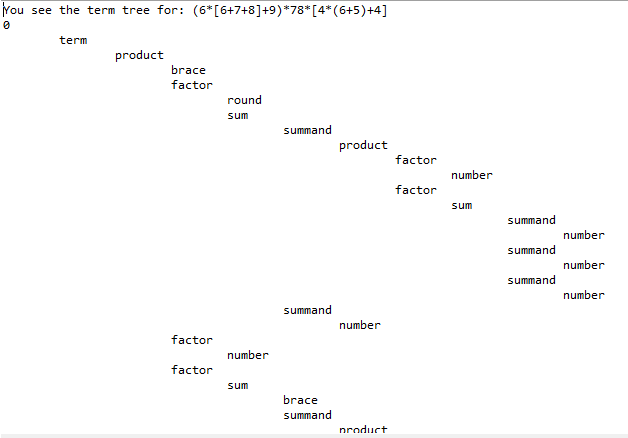
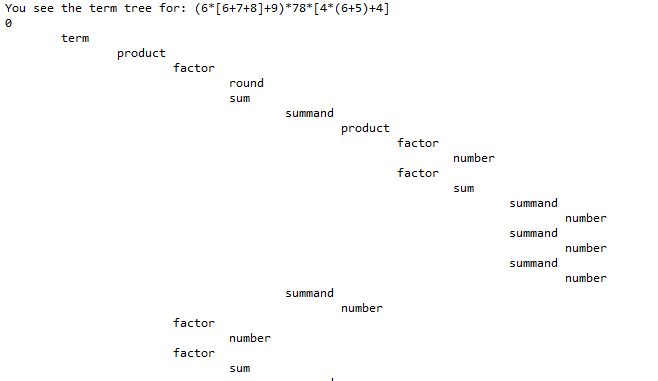
Changed doc in Readme.md

diff --git a/regex/src/test/java/com/florianingerl/util/regex/tests/CaptureReplacerTest.java b/regex/src/test/java/com/florianingerl/util/regex/tests/CaptureReplacerTest.java
@@ -32,11 +32,8 @@ public class CaptureReplacerTest {
 
 		Matcher m = p.matcher(term);
 
-		String expected = "\\product{\\sum{\\product{6,\\sum{6,7,8}},9},78,\\sum{\\product{4,\\sum{6,5}},4}}";
+		String expected = "\\product{(\\sum{\\product{6,[\\sum{6,7,8}]},9}),78,[\\sum{\\product{4,(\\sum{6,5})},4}]}";
 		CaptureReplacer replacer = new DefaultCaptureReplacer() {
-
-			private List<String> summandFactor = Arrays.asList("summand", "factor");
-			private List<String> numSumProd = Arrays.asList("number", "sum", "product");
 
 			@Override
 			public String replace(CaptureTreeNode node) {
@@ -46,9 +43,6 @@ public class CaptureReplacerTest {
 				} else if ("product".equals(node.getGroupName())) {
 					return "\\product{" + node.getChildren().stream().filter(n -> "factor".equals(n.getGroupName()))
 							.map(n -> replace(n)).collect(Collectors.joining(",")) + "}";
-				} else if (summandFactor.contains(node.getGroupName())) {
-					return replace(node.getChildren().stream().filter(n -> numSumProd.contains(n.getGroupName()))
-							.findFirst().get());
 				} else {
 					return super.replace(node);
 				}
@@ -57,6 +51,7 @@ public class CaptureReplacerTest {
 		};
 		String actual = m.replaceAll(replacer);
 		System.out.println(actual);
+		System.out.println(expected);
 
 		assertEquals(expected, actual);
 

diff --git a/regex/src/test/java/com/florianingerl/util/regex/tests/RegExTest.java b/regex/src/test/java/com/florianingerl/util/regex/tests/RegExTest.java
@@ -786,6 +786,9 @@ public class RegExTest {
 		pattern = "1(?<letter>a)?bbb(?(letter)yy)st2";
 		check(pattern, "1abbbyyst2", true);
 
+		pattern = "(?:(\\()|\\[)[a-z]+(?(1)\\)|\\])";
+		check(pattern, "(first) [second] [not third) (not fourth match]", new String[] { "(first)", "[second]" });
+
 		report("Conditional based on valid group catpure");
 	}
 

diff --git a/README.md b/README.md
@@ -1,30 +1,28 @@
 ![com.github.florianingerl.util.regex](media/logo.png)
 
-### Introduction
-This is a Java Regular Expressions library. Compared to the Regular Expression library shipped with the Java JDK, it provides support for Recursive and Conditional Regular Expressions, gives detailed results for a successfull match via a so-called Capture Tree and allows the user to install plugins into the regex engine.
+This is a Regular Expressions library for Java. Compared to java.util.regex, it supports Recursive and Conditional Regular Expressions, Capture Trees and Plugins.
 
-In the following screenshot, all the new features are summarized.
-![com.github.florianingerl.util.regex.newfeatures](media/newfeatures.png)
+## Table of Contents
+- [Pre-requirement for this tutorial](#pre-requirements-for-this-tutorial)
+- [API usage](#api-usage)
+- [Regular Expression features](#regular-expression-features)
+    - [Recursive Regular Expressions](#recursive-regular-expressions)
+    - [Conditional Regular Expressions](#conditional-regular-expressions)
+    - [Capture Trees](#capture-trees)
+	- [Recursive replace](#recursive-replace)
+	- [Plugins for the Regex engine](#plugins-for-the-regex-engine)
+	- [Known Issues](#known-issues)
+- [JavaDoc](#javadoc)	
+- [Download](#download)	
+- [Links](#links)
 
+##Pre-requirement for this tutorial
+This tutorial assumes that you are already familiar with [Regular Expressions](http://www.regular-expressions.info/tutorial.html) and also with the [Regular Expression API of Java](https://docs.oracle.com/javase/tutorial/essential/regex/). 
 
-### What's new :star:
-
-### Version 1.1.1
-- Capture Trees
-- Recursive Regular Expressions now deal with Capturing Groups, Backreferences and Backtracking similar as Perl 5.10 did (see explanations and examples below)
-### Version 1.0.3
-- `(?(DEFINE)never-executed-pattern)`
-- Plugins for the Regex engine
-
-### Version 1.0.2
-- Recursive Regular Expressions
-- Conditional Regular Expressions
-- Captures
-
-### Usage
+##API usage
 The API is exactly the same as in java.util.regex. The only difference is that the required import statement is `import com.florianingerl.util.regex.\*;` instead of `import java.util.regex.\*;`
 
-To illustrate the functionality, we will use the following utility functions
+Throughout this tutorial, we will make use of the following two utility functions:
 ```java
 import com.florianingerl.util.regex.*;
 
@@ -32,8 +30,9 @@ private static void check(String p, String s, boolean expected)
 {
 	Matcher matcher = Pattern.compile(p).matcher(s);
 	if (matcher.find() != expected)
-		failCount++;
+		System.exit(1);
 }
+
 static void check(String regex, String input, String[] expected) 
 {
 	List<String> result = new ArrayList<String>();
@@ -43,12 +42,17 @@ static void check(String regex, String input, String[] expected)
 		result.add(m.group());
 	}
 	if (!Arrays.asList(expected).equals(result))
-		failCount++;
+		System.exit(1);
 }
 ```
 
-### Recursive Regular Expressions
-The following tests illustrate what you can do with Recursive Regular Expressions. Be aware that the syntax `(?R)` or `(?0)` as in Perl is not supported, only `(?n)` where `n` is greater than `0` or `(?'groupName')` is supported.
+###Regular Expression features
+In the following screenshot, all the new features are summarized.
+![com.github.florianingerl.util.regex.newfeatures](media/newfeatures.png)
+
+##Recursive Regular Expressions
+This section assumes that you are already familiar with [Recursive Regular Expressions](http://www.regular-expressions.info/recurse.html).
+Be aware that the syntax `(?R)` or `(?0)` as in Perl is not supported by this library, only `(?n)` where `n` is greater than `0` or `(?'groupName')` is supported. Examples:
 ```java
 //Matching Java types
 String pattern = "^(?<javaType>[a-zA-Z]\\w*(?:\\<(?'javaType')(,(?'javaType'))*\\>)?)$";
@@ -82,14 +86,17 @@ pattern = "(?(DEFINE)(?<second>\\k<first>))(?<first>[a-z])(?'second')";
 check(pattern, "bb", false);
 ```
 
-### Plugins for the Regex engine
-Since version 1.0.3, you can install plugins for the Regex engine. The method of the Pattern class seen in the screenshot below is used for that purpose.
-![com.florianingerl.util.regex.plugins](media/plugins.png)
+##Conditional Regular Expressions
+This section assumes that you are already familiar with [Conditional Regular Expressions](http://www.regular-expressions.info/conditional.html) .
+The syntax supported by this library is `(?(groupNumber)yes|no)` or `(?(groupName)yes|no)`. An example:
 
-Good examples for plugins are given in the PluginTest class, see [PluginTest.java](regex/src/test/java/com/florianingerl/util/regex/tests/PluginTest.java). You might also want to read the [JavaDoc](https://florianingerl.github.io/com.florianingerl.util.regex/).
+```java
+String pattern = "(?:(\\()|\\[)[a-z]+(?(1)\\)|\\])";
+		check(pattern, "(first) [second] [not third) (not fourth match]", new String[] { "(first)", "[second]" });
+```
 
-### Capture Trees
-This concept is best illustrated by an example. The following regex (which is stored in a file) should parse mathematical terms such as (6*[6+7+8]+9)\*78\*[4*(6+5)+4] .
+##Capture Trees
+This concept is best illustrated by an example. The following Regex (which is stored in a file) should parse mathematical terms such as `(6*[6+7+8]+9)*78*[4*(6+5)+4]` .
 
 ```
 //term.regex
@@ -110,45 +117,75 @@ This concept is best illustrated by an example. The following regex (which is st
 (?'term')
 ```
 
-After having parsed a term, you can inspect the so-called Capture Tree of the match, which reflects the hierarchical nature of the groups. E.g. in this case, the term (6*[6+7+8]+9)\*78\*[4*(6+5)+4] is a product which consists of three factors. The first one of these factors is a sum and so on...
+After having parsed a term, you can inspect the so-called Capture Tree of the match, which reflects the hierarchical nature of the groups. E.g. in this case, the term `(6*[6+7+8]+9)*78*[4*(6+5)+4]` is a product which consists of three factors. The first one of these factors is a sum and so on...
 
 The following code
 
 ```java
-String regex = IOUtils.toString(
-				new FileInputStream("term.regex"), "UTF-8");
+String regex = IOUtils.toString( new FileInputStream("term.regex"), "UTF-8");
 Pattern p = Pattern.compile(regex);
 
 String term = "(6*[6+7+8]+9)*78*[4*(6+5)+4]";
 
 System.out.println("You see the term tree for: " + term);
 Matcher m = p.matcher(term);
-assertTrue(m.matches());
+m.matches();
 System.out.println(m.captureTree());
 ```
 
 produces the output seen in the following screenshot:
 ![a term tree](media/termtree.png)
 
-### Maven Dependency
-In order to use this library, add the following dependency to your pom.xml.
+##Recursive replace
+Continuing with the example from above, we now want to replace each sum like `6+7` with `\sum{6,7}` and to replace each product like `5*3` with `\product{5,3}`. The short code snippet
+
+```java
+String replacement = m.replaceAll( new DefaultCaptureReplacer() {
+			@Override
+			public String replace(CaptureTreeNode node) {
+				if ("sum".equals(node.getGroupName())) {
+					return "\\sum{" + node.getChildren().stream().filter(n -> "summand".equals(n.getGroupName()))
+							.map(n -> replace(n)).collect(Collectors.joining(",")) + "}";
+				} else if ("product".equals(node.getGroupName())) {
+					return "\\product{" + node.getChildren().stream().filter(n -> "factor".equals(n.getGroupName()))
+							.map(n -> replace(n)).collect(Collectors.joining(",")) + "}";
+				} else {
+					return super.replace(node);
+				}
+			}
+
+		});
+System.out.println(replacement);
 ```
-<dependency>
-	<groupId>com.github.florianingerl.util</groupId>
-	<artifactId>regex</artifactId>
-	<version>1.1.1</version>
-</dependency>
+prints
+```
+\product{(\sum{\product{6,[\sum{6,7,8}]},9}),78,[\sum{\product{4,(\sum{6,5})},4}]}
 ```
 
-### Known Issues
-Unfortunately this library needs more stacks than java.util.regex which can lead to a StackOverflowException more quickly in rare cases.
-E.g. suppose you wanted to match Java strings with the regex 
+##Plugins for the Regex engine
+You can install plugins for the Regex engine. The method of the Pattern class seen in the screenshot below is used for that purpose.
+![com.florianingerl.util.regex.plugins](media/plugins.png)
+
+An example for a plugin is given in [PluginTest.java](regex/src/test/java/com/florianingerl/util/regex/tests/PluginTest.java). 
+
+##Known Issues
+Unfortunately, this library needs more stacks than java.util.regex which can lead to a `StackOverflowException` more quickly in rare cases.
+E.g. suppose you wanted to match Java strings with the following Regex:
 ```
 "(\\.|[^"])*"
 ```
-then this would only work for string lengths up to 3890, whereas with java.util.regex it would work with string lengths up to 6930. The problem is the
+Then this would only work for string lengths up to 3890, whereas with java.util.regex it would work with string lengths up to 6930. The problem is the
 *-repetition that has to keep track of group captures and the backtracking options of the alternation. However a simple character class can be repeated nearly an unlimited number of times,
-so the regex above could be improved to
+so the Regex above could be improved to
 ```
 "(?:\\.|[^"\\]+)*"
 ```
+
+##JavaDoc
+Read the [JavaDoc for this library](https://florianingerl.github.io/com.florianingerl.util.regex/).
+
+##Download
+Download the library from [Maven central](https://mvnrepository.com/artifact/com.github.florianingerl.util/regex/1.0.3).
+
+##Links
+* [Regular Expressions tutorial](http://www.regular-expressions.info/tutorial.html)
